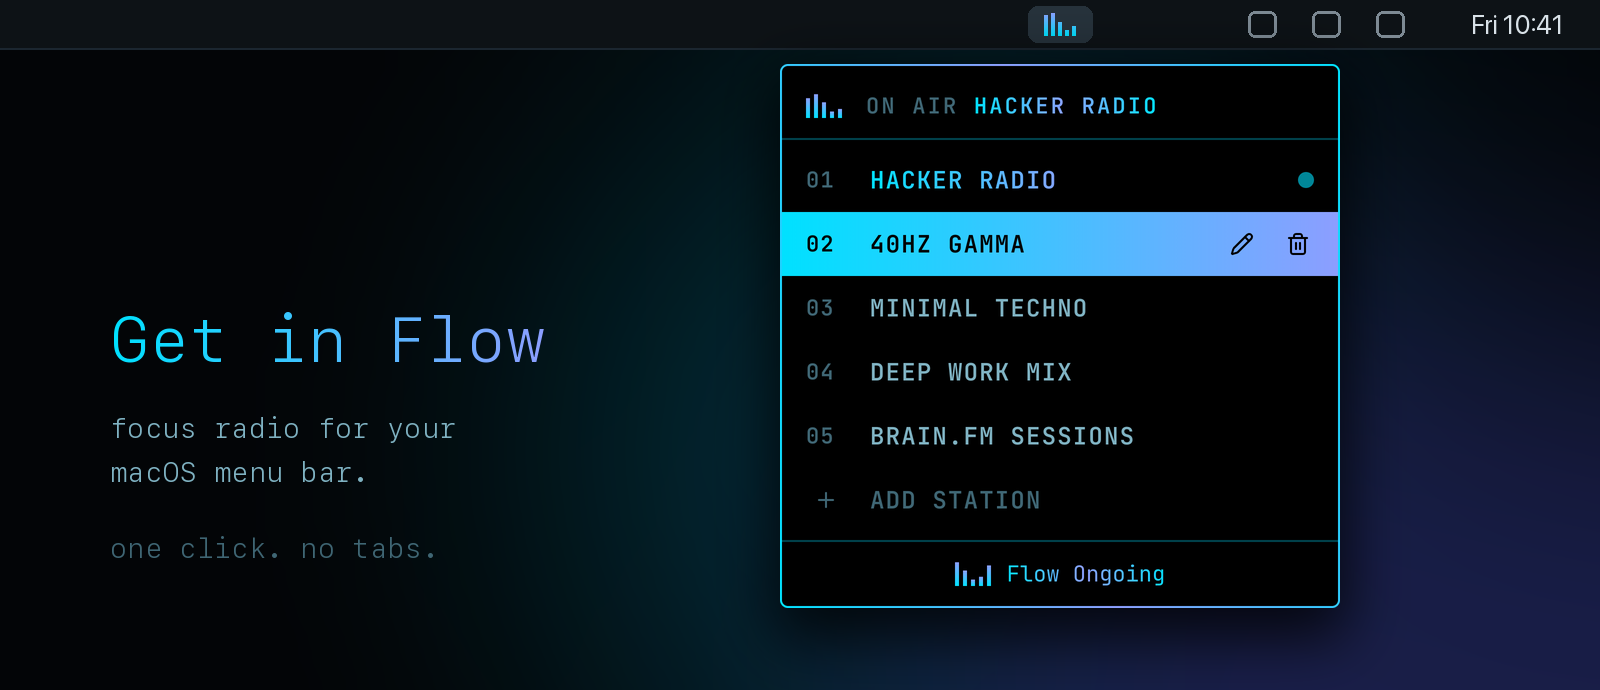
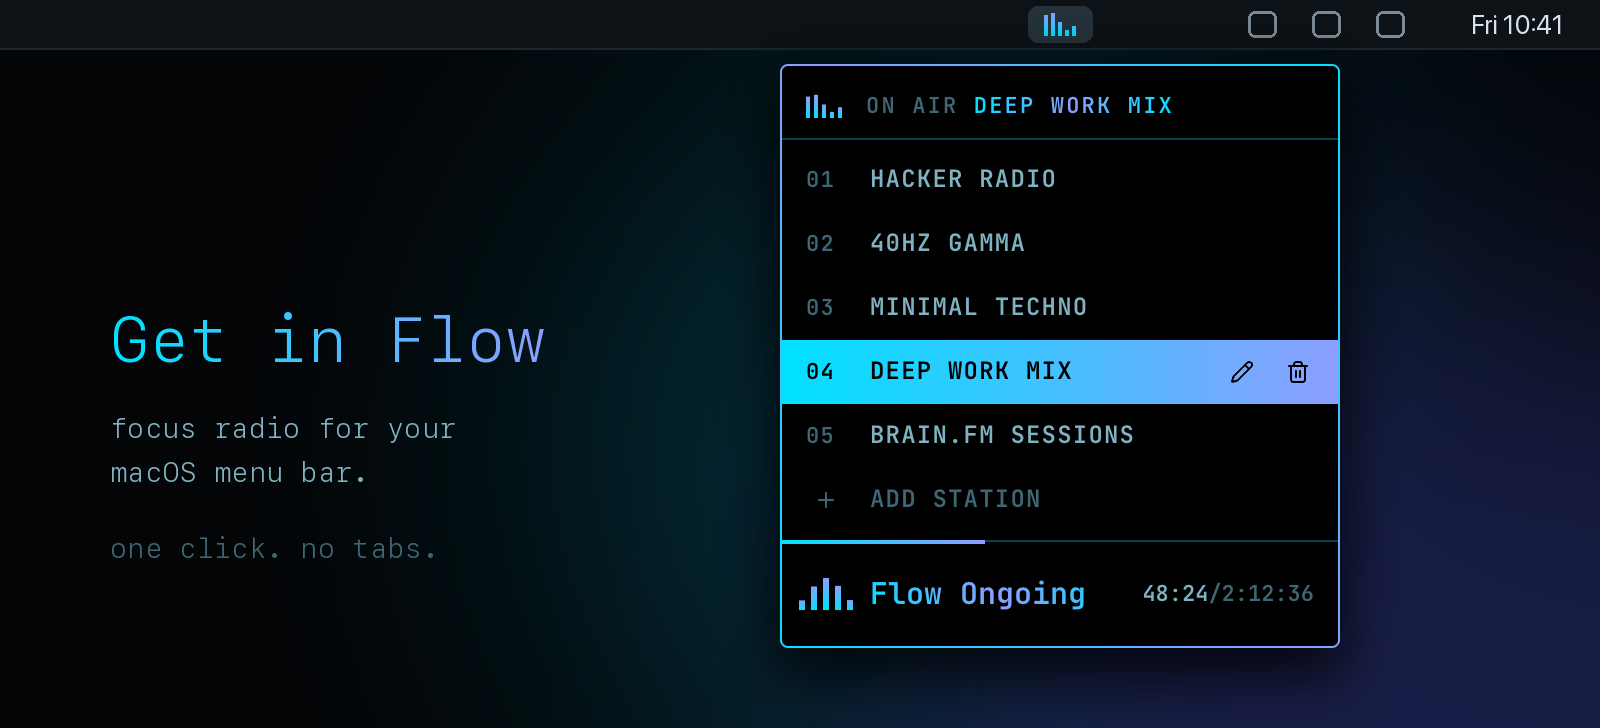
Fit the deck clock past an hour, new hero shot, release 0.1.2

diff --git a/renderer/src/radio.tsx b/renderer/src/radio.tsx
@@ -743,7 +743,7 @@ export function Radio() {
             </span>
             <span
               className={cn(
-                "min-w-0 flex-1 truncate text-15 font-semibold tracking-wide whitespace-nowrap group-focus/deck:text-status",
+                "min-w-0 flex-1 truncate text-15 font-semibold whitespace-nowrap group-focus/deck:text-status",
                 status !== "error" && "radio-text group-focus/deck:[background:none]",
                 playing && "radio-live",
               )}
@@ -918,7 +918,7 @@ function DeckMeta({ status, clock }: { status: Status; clock: { time: number; du
   return (
     <span className={cn(meta, "text-text-muted")}>
       {formatTime(clock.time)}
-      <span className="text-text-dim group-focus/deck:text-status"> / {formatTime(clock.duration)}</span>
+      <span className="text-text-dim group-focus/deck:text-status">/{formatTime(clock.duration)}</span>
     </span>
   );
 }

diff --git a/README.md b/README.md
@@ -26,6 +26,7 @@ Focus music lives in a YouTube tab. The tab gets closed, buried under forty othe
 - **Five stations, ready to go.** Hacker radio (live), 40hz gamma, minimal techno, a deep work mix and brain.fm sessions.
 - **Add your own.** Paste any YouTube video, live stream or playlist link. Flow Radio names the station from the video's title.
 - **Picks up where you left off.** Each station remembers its spot, even after you quit or restart. Playlists keep their shuffled order.
+- **Always know where you are.** The play bar shows elapsed time and length, or `LIVE` for streams, with a progress line glowing along its edge.
 - **An icon that shows what's on.** The equalizer holds still when stopped and bounces while music plays, so you can tell at a glance.
 - **Keyboard first.** Arrows to move, enter to play, `e` to rename, delete to remove, esc to close.
 - **Careful edits.** Renames and removals ask before they happen.
